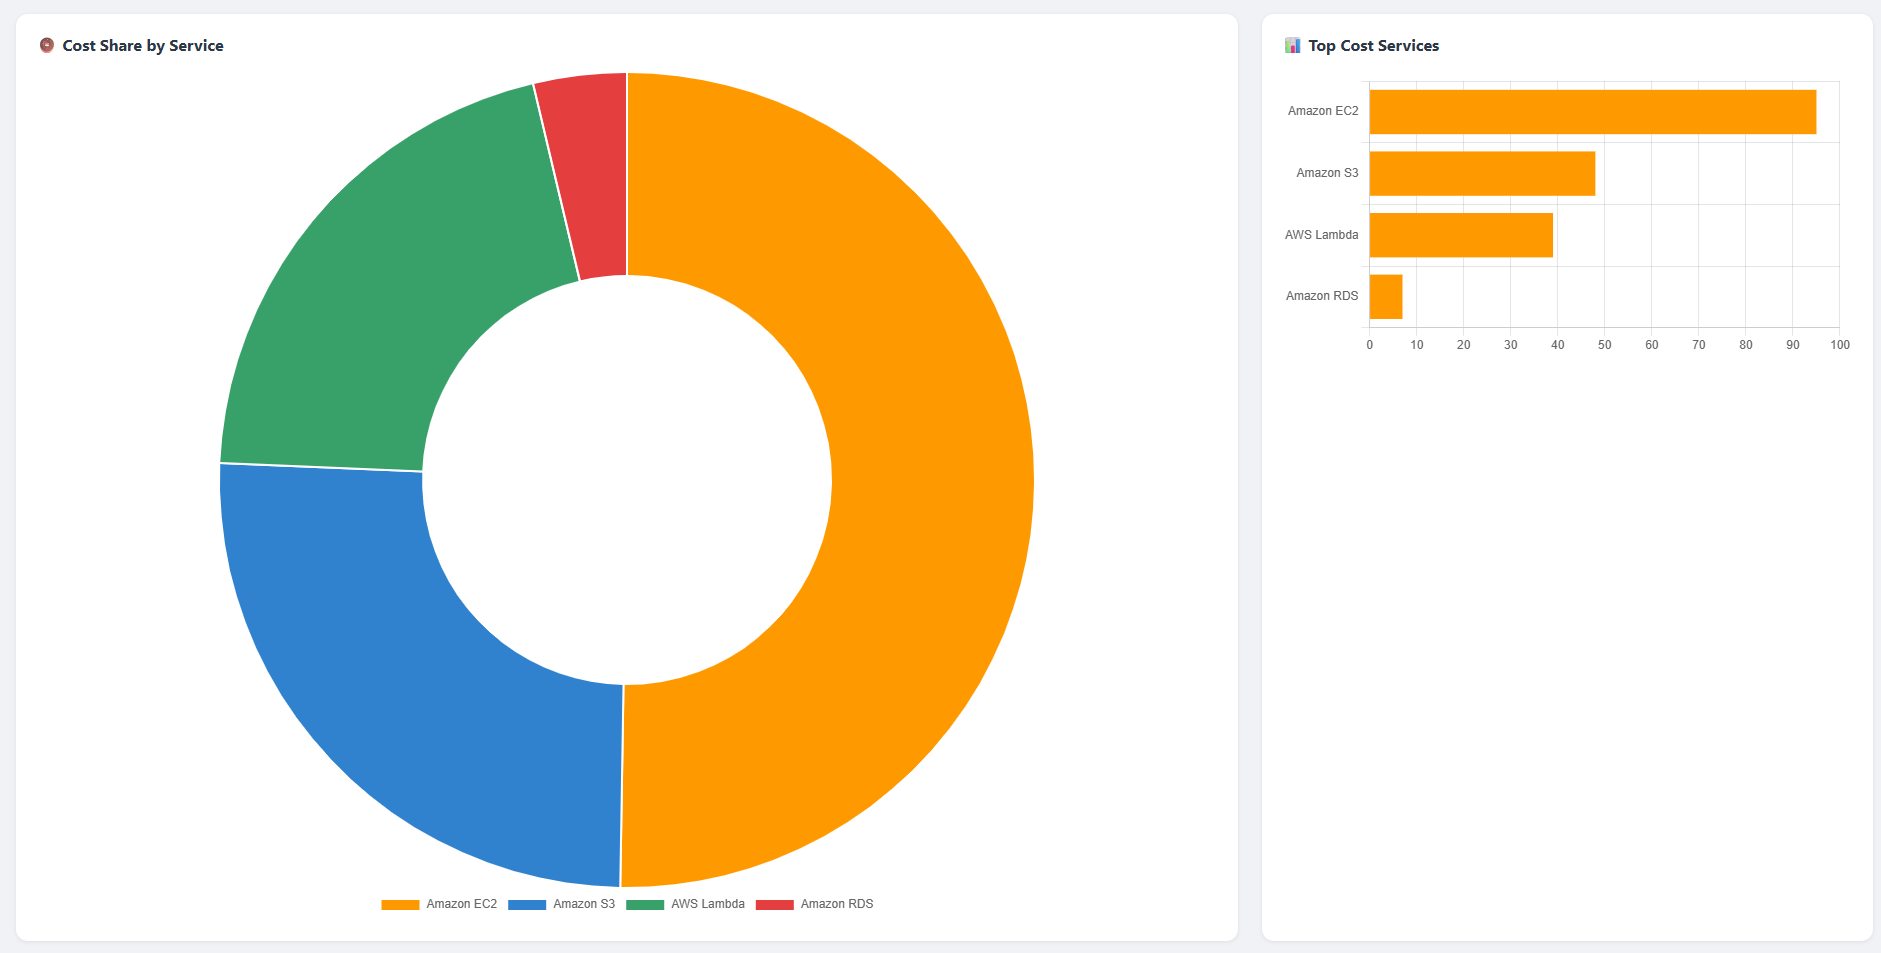
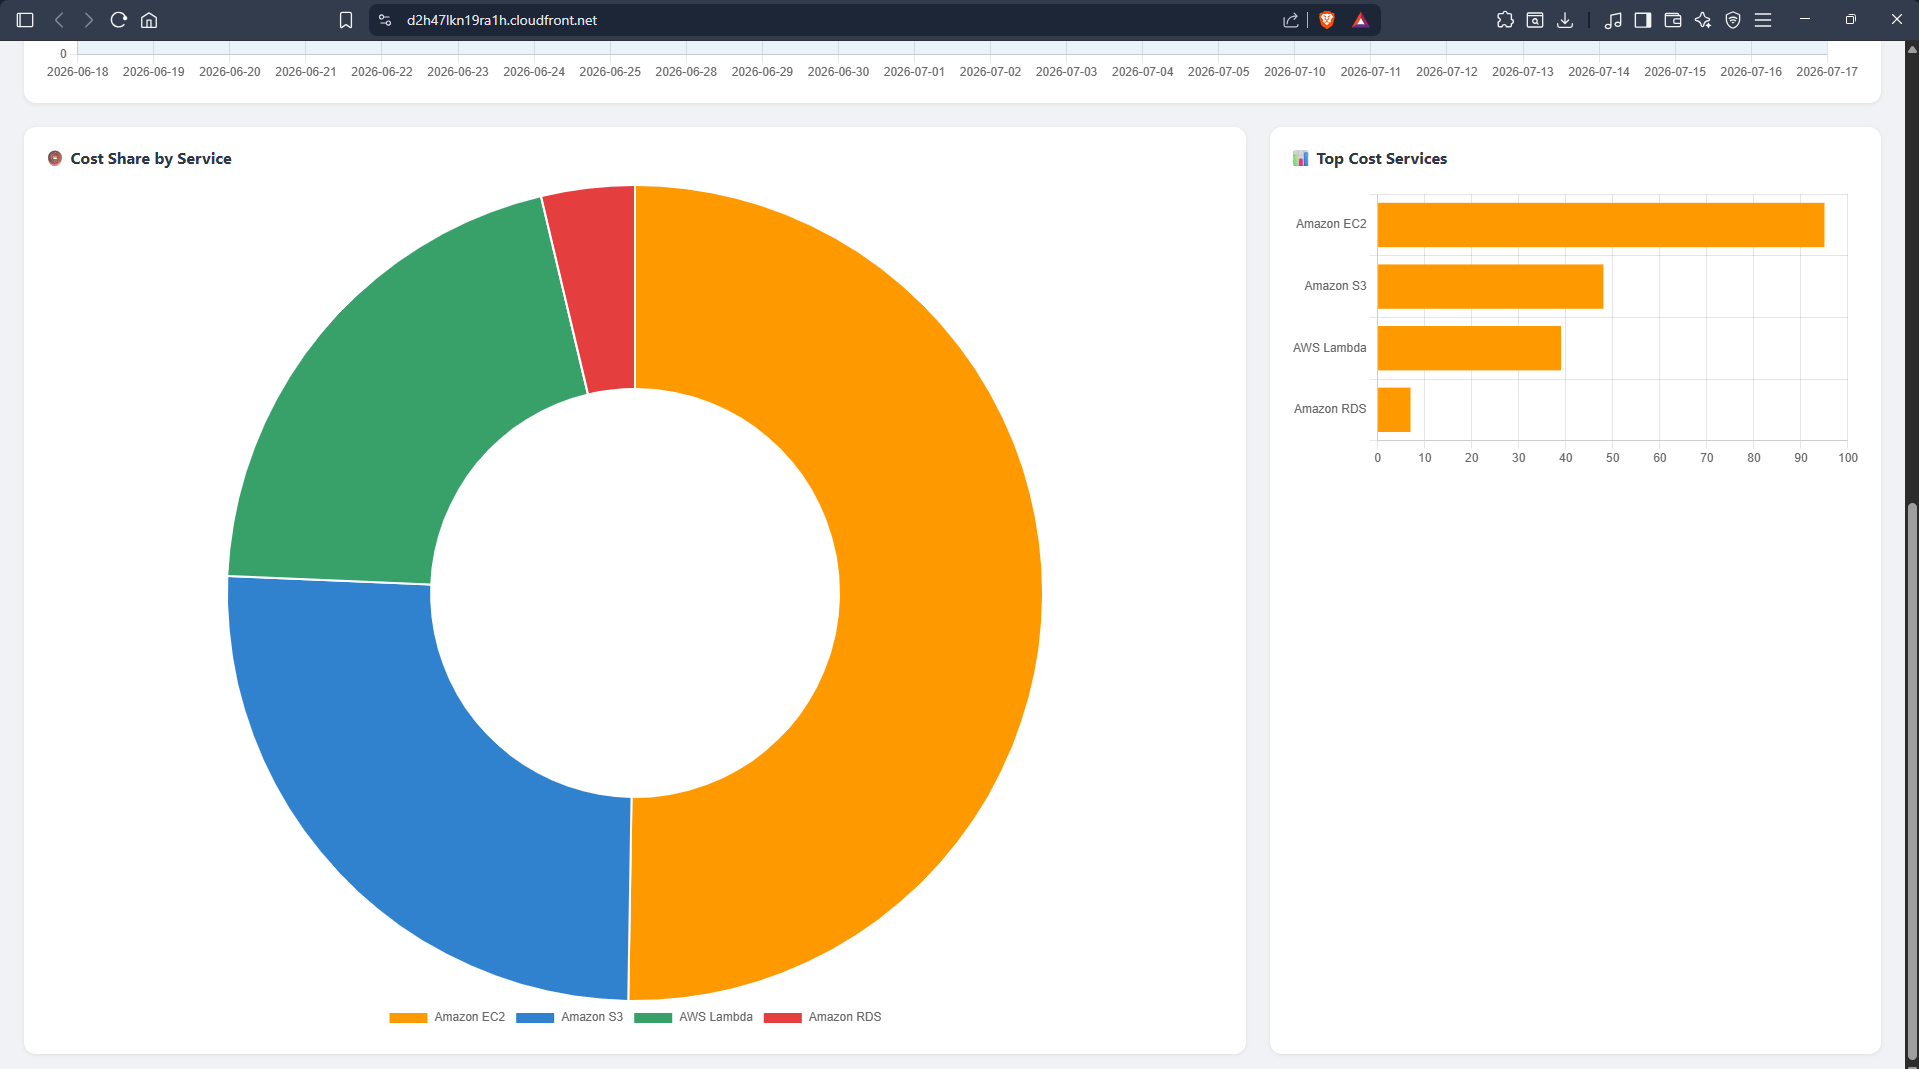
Updates: workshop

diff --git a/terraform/web/script.js b/terraform/web/script.js
@@ -197,7 +197,7 @@ async function loadDashboard() {
 const langToggle = document.getElementById("lang-toggle");
 langToggle.addEventListener("click", () => {
     currentLang = currentLang === "vi" ? "en" : "vi";
-    langToggle.textContent = currentLang === "vi" ? "🇻🇳 VI" : "🇬🇧 EN";
+    langToggle.textContent = currentLang === "vi" ? "VI" : "EN";
     applyStaticText();
     if (latestData) renderCharts(latestData); // vẽ lại biểu đồ với nhãn ngôn ngữ mới
 });

diff --git a/content/5-Workshop/5.6-Dashboard/5.6.2-Frontend/_index.vi.md b/content/5-Workshop/5.6-Dashboard/5.6.2-Frontend/_index.vi.md
@@ -87,7 +87,6 @@ Chúng ta sẽ tạo giao diện Web trong thư mục `lambda/web`:
 2. File `style.css` chứa toàn bộ định dạng giao diện:
 
 ```css
-/* style.css — CloudCost Insight Dashboard */
 * {
     box-sizing: border-box;
     margin: 0;
@@ -445,7 +444,7 @@ async function loadDashboard() {
 const langToggle = document.getElementById("lang-toggle");
 langToggle.addEventListener("click", () => {
     currentLang = currentLang === "vi" ? "en" : "vi";
-    langToggle.textContent = currentLang === "vi" ? "🇻🇳 VI" : "🇬🇧 EN";
+    langToggle.textContent = currentLang === "vi" ? "VI" : "EN";
     applyStaticText();
     if (latestData) renderCharts(latestData); // vẽ lại biểu đồ với nhãn ngôn ngữ mới
 });
@@ -629,8 +628,37 @@ terraform output web_dashboard_url
 
 ![Script](/fcaj-workshop-threenines/images/5-Workshop/5.6-Dashboard/5.6.2-Frontend/frontend_2.png)
 
-3. Truy cập vào đường link hiện ra trên Terminal, ta sẽ vào giao diện của Website:
+3. Truy cập vào đường link hiện ra trên Terminal, ta sẽ vào giao diện của Website: 
 
 ![Dashboard](/fcaj-workshop-threenines/images/5-Workshop/5.6-Dashboard/5.6.2-Frontend/frontend_3.png)
 
 ![Dashboard](/fcaj-workshop-threenines/images/5-Workshop/5.6-Dashboard/5.6.2-Frontend/frontend_4.png)
+
+Giao diện thể hiện được **tổng chi phí**, **ngưỡng cảnh báo**, **số ngày theo dõi**, **số ngày bất thường**, và 3 biểu đồ trực quan:
+
+**Biểu đồ 1: Xu hướng chi phí theo ngày (Trend Chart):**
+
+![Dashboard](/fcaj-workshop-threenines/images/5-Workshop/5.6-Dashboard/5.6.2-Frontend/frontend_5.png)
+
+- Trục X (ngang): thể hiện các ngày theo dõi.
+- Trục Y (dọc): thể hiện chi phí ($) mỗi ngày.
+- Đường ngang màu xanh: thể hiện chi phí thực tế biến động theo ngày.
+- Nét đứt màu đỏ: đây là đường ngang cố định, thể hiện ngưỡng ngân sách. Nếu chi phí vượt lên trên đường này thì vượt ngưỡng.
+- Vùng nền màu xanh: được tô dưới đường màu xanh thể hiện xu hướng.
+
+**Biểu đồ 2: Tỷ trọng theo dịch vụ (Service Chart):**
+
+![Dashboard](/fcaj-workshop-threenines/images/5-Workshop/5.6-Dashboard/5.6.2-Frontend/frontend_6.png)
+
+- Mỗi phần của hình tròn là chi phí của mỗi dịch vụ. Phần càng lớn chứng tỏ chi phí của dịch vụ đó càng cao.
+- Trên mỗi phần có tên các dịch vụ nếu chúng ta chọn vào.
+- Mỗi dịch vụ là một màu riêng biệt.
+- Danh sách dịch vụ + màu tương ứng ở phía dưới biểu đồ.
+
+**Biểu đồ 3: Top dịch vụ (Bar Chart):**
+
+![Dashboard](/fcaj-workshop-threenines/images/5-Workshop/5.6-Dashboard/5.6.2-Frontend/frontend_7.png)
+
+- Biểu đồ thể hiện top 5 các dịch vụ có chi phí cao nhất.
+- Trục X (ngang): thể hiện chi phí của dịch vụ.
+- Trục Y (dọc): thể hiện tên dịch vụ tương ứng.

diff --git a/content/5-Workshop/5.6-Dashboard/5.6.2-Frontend/_index.md b/content/5-Workshop/5.6-Dashboard/5.6.2-Frontend/_index.md
@@ -87,7 +87,6 @@ We will create the Web interface in the `lambda/web` directory:
 2. The `style.css` file contains all the styling definitions for the user interface:
 
 ```css
-/* style.css — CloudCost Insight Dashboard */
 * {
     box-sizing: border-box;
     margin: 0;
@@ -445,7 +444,7 @@ async function loadDashboard() {
 const langToggle = document.getElementById("lang-toggle");
 langToggle.addEventListener("click", () => {
     currentLang = currentLang === "vi" ? "en" : "vi";
-    langToggle.textContent = currentLang === "vi" ? "🇻🇳 VI" : "🇬🇧 EN";
+    langToggle.textContent = currentLang === "vi" ? "VI" : "EN";
     applyStaticText();
     if (latestData) renderCharts(latestData); // Re-render charts with the new language labels
 });
@@ -634,3 +633,32 @@ terraform output web_dashboard_url
 ![Dashboard](/fcaj-workshop-threenines/images/5-Workshop/5.6-Dashboard/5.6.2-Frontend/frontend_3.png)
 
 ![Dashboard](/fcaj-workshop-threenines/images/5-Workshop/5.6-Dashboard/5.6.2-Frontend/frontend_4.png)
+
+The dashboard displays the **total cost**, **alert threshold**, **number of monitored days**, **number of anomalous days**, and three visualization charts:
+
+**Chart 1: Daily Cost Trend (Trend Chart):**
+
+![Dashboard](/fcaj-workshop-threenines/images/5-Workshop/5.6-Dashboard/5.6.2-Frontend/frontend_5.png)
+
+- The X-axis (horizontal) represents the monitored days.
+- The Y-axis (vertical) represents the daily cost ($).
+- The blue line represents the actual daily cost trend.
+- The red dashed line is a fixed line representing the budget threshold. If the cost rises above this line, it exceeds the configured threshold.
+- The blue shaded area beneath the line highlights the cost trend.
+
+**Chart 2: Cost Share by Service (Service Chart):**
+
+![Dashboard](/fcaj-workshop-threenines/images/5-Workshop/5.6-Dashboard/5.6.2-Frontend/frontend_6.png)
+
+- Each slice of the pie chart represents the cost of an AWS service. The larger the slice, the higher the cost of that service.
+- The name of each service is displayed when you hover over or select its slice.
+- Each service is represented by a distinct color.
+- A legend below the chart shows the corresponding service names and colors.
+
+**Chart 3: Top Cost Services (Bar Chart):**
+
+![Dashboard](/fcaj-workshop-threenines/images/5-Workshop/5.6-Dashboard/5.6.2-Frontend/frontend_7.png)
+
+- The chart displays the top 5 services with the highest costs.
+- The X-axis (horizontal) represents the service cost.
+- The Y-axis (vertical) represents the corresponding service names.